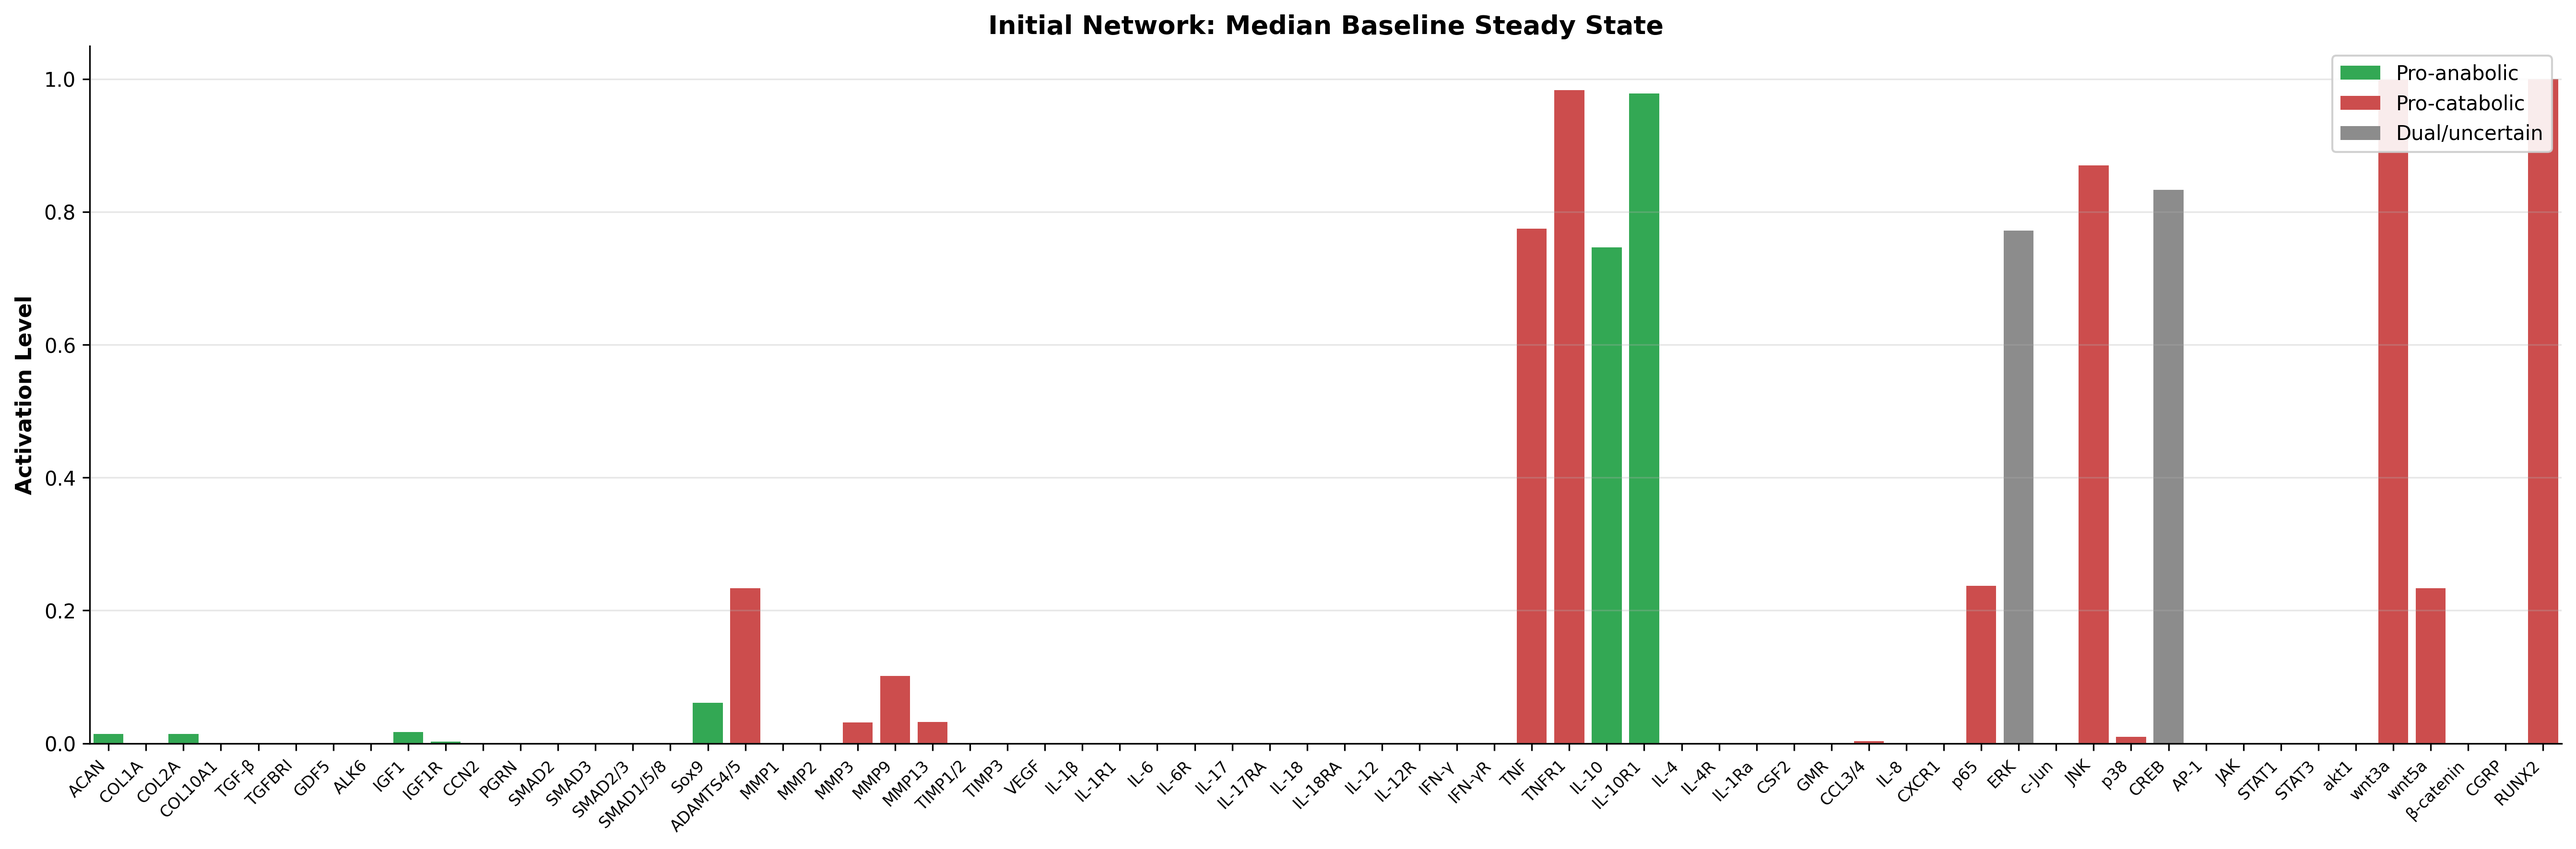
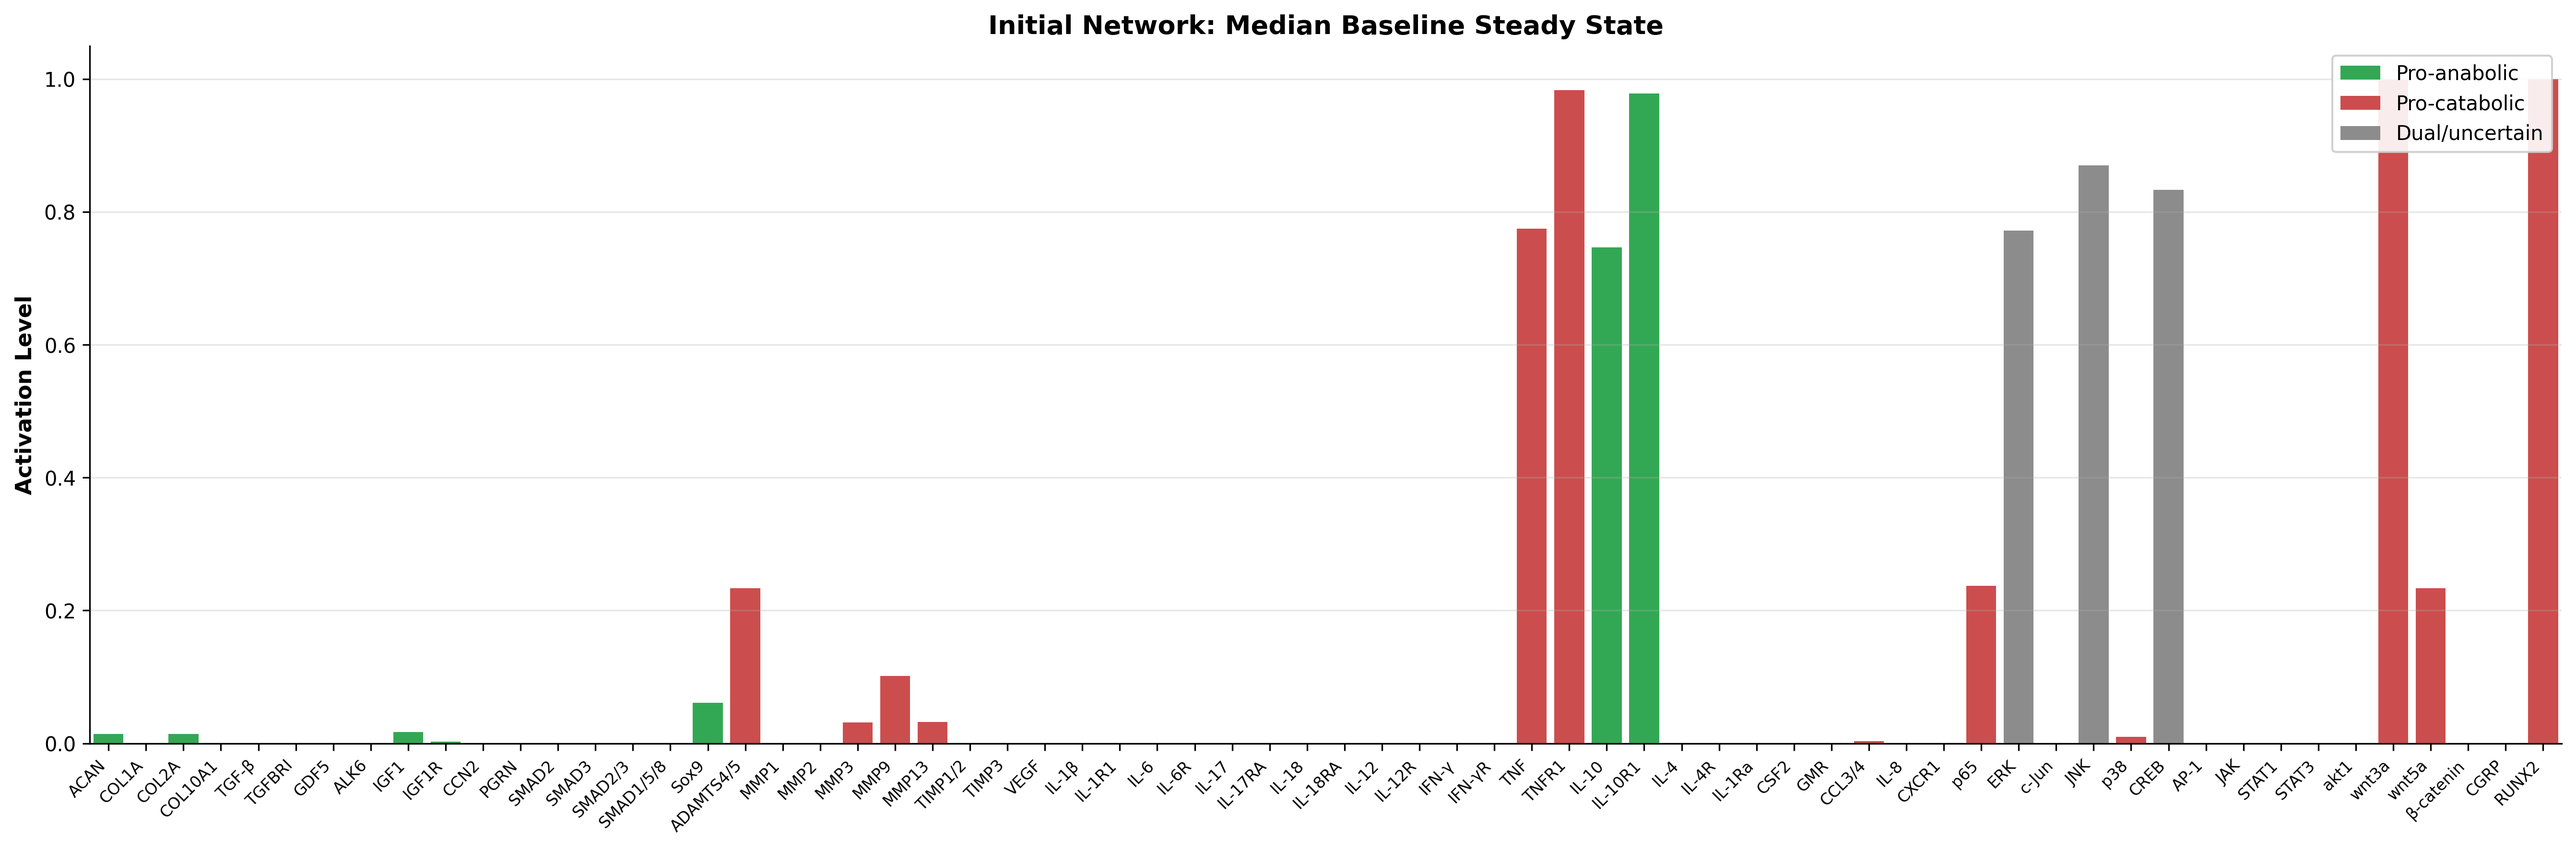
fix: move JNK to dual/uncertain (grey) in bar plots

Changed region(s): [[0.8086, 0.1863, 0.8397, 0.8696]]

diff --git a/rnm/visualization.py b/rnm/visualization.py
@@ -40,7 +40,7 @@ _CATABOLIC_NODES = {
     "IFN-\u03b3", "IL-8", "CSF2", "CGRP",
     "MMP1", "MMP2", "MMP3", "MMP9", "MMP13",
     "ADAMTS4/5", "VEGF", "COL1A", "COL10A1",
-    "p65", "p38", "JNK",
+    "p65", "p38",
     "\u03b2-catenin", "wnt3a", "wnt5a",
     "TLR", "TNFR1", "IL-1R1", "IL-6R", "IFN-\u03b3R",
     "IL-17RA", "IL-18RA", "CXCR1", "IL-12R",
